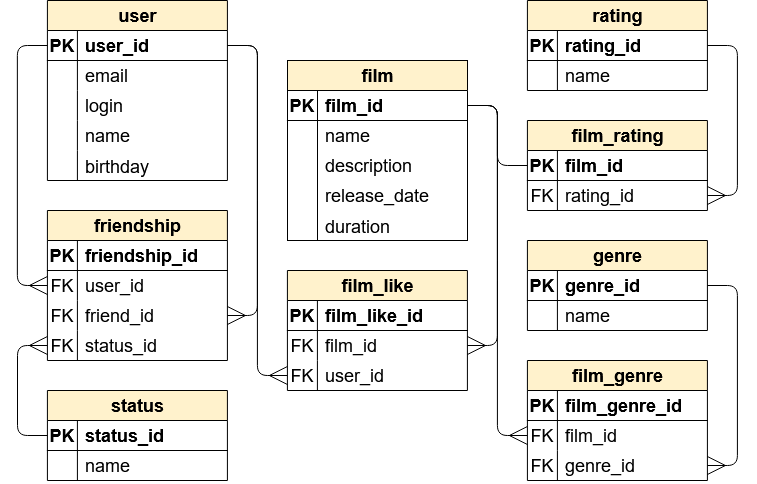
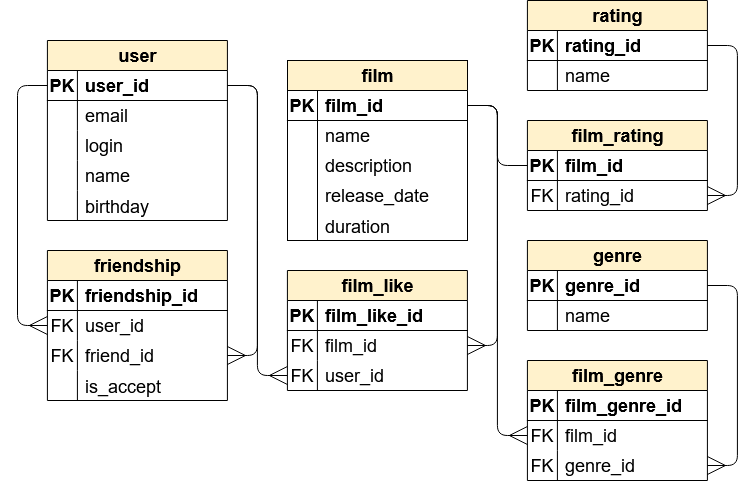
fix: remove table 'status' in er diagram

diff --git a/README.md b/README.md
@@ -32,16 +32,7 @@ ER-диаграмма проектируемой базы данных для с
 1. первичный ключ `friendship_id` - идентификатор записи в данной таблице;
 2. внешний ключ `user_id` (отсылает к таблице `user`) - идентификатор пользователя, отправившего заявку;
 3. внешний ключ `friend_id` (отсылает к таблице `user`) - идентификатор пользователя, получившего заявку;
-4. внешний ключ `status-id` (отсылает к таблице `status`) - идентификатор статуса заявки в друзья.
----
-### `status`
-Содержит данные о статусах заявок в друзья пользователей.
-
-Таблица включает следующие поля:
-1. первичный ключ `status_id` - идентификатор записи в данной таблице;
-2. `name` - название статуса заявки. Принимает следующие значения:
-   - "UNCONFIRMED" - неподтвержденная,
-   - "CONFIRMED" - подтвержденная.
+4. `is_accept` - статус заявки в друзья.
 ---
 ### `film_like`
 Содержит данные о лайках пользователей каждого фильма.
